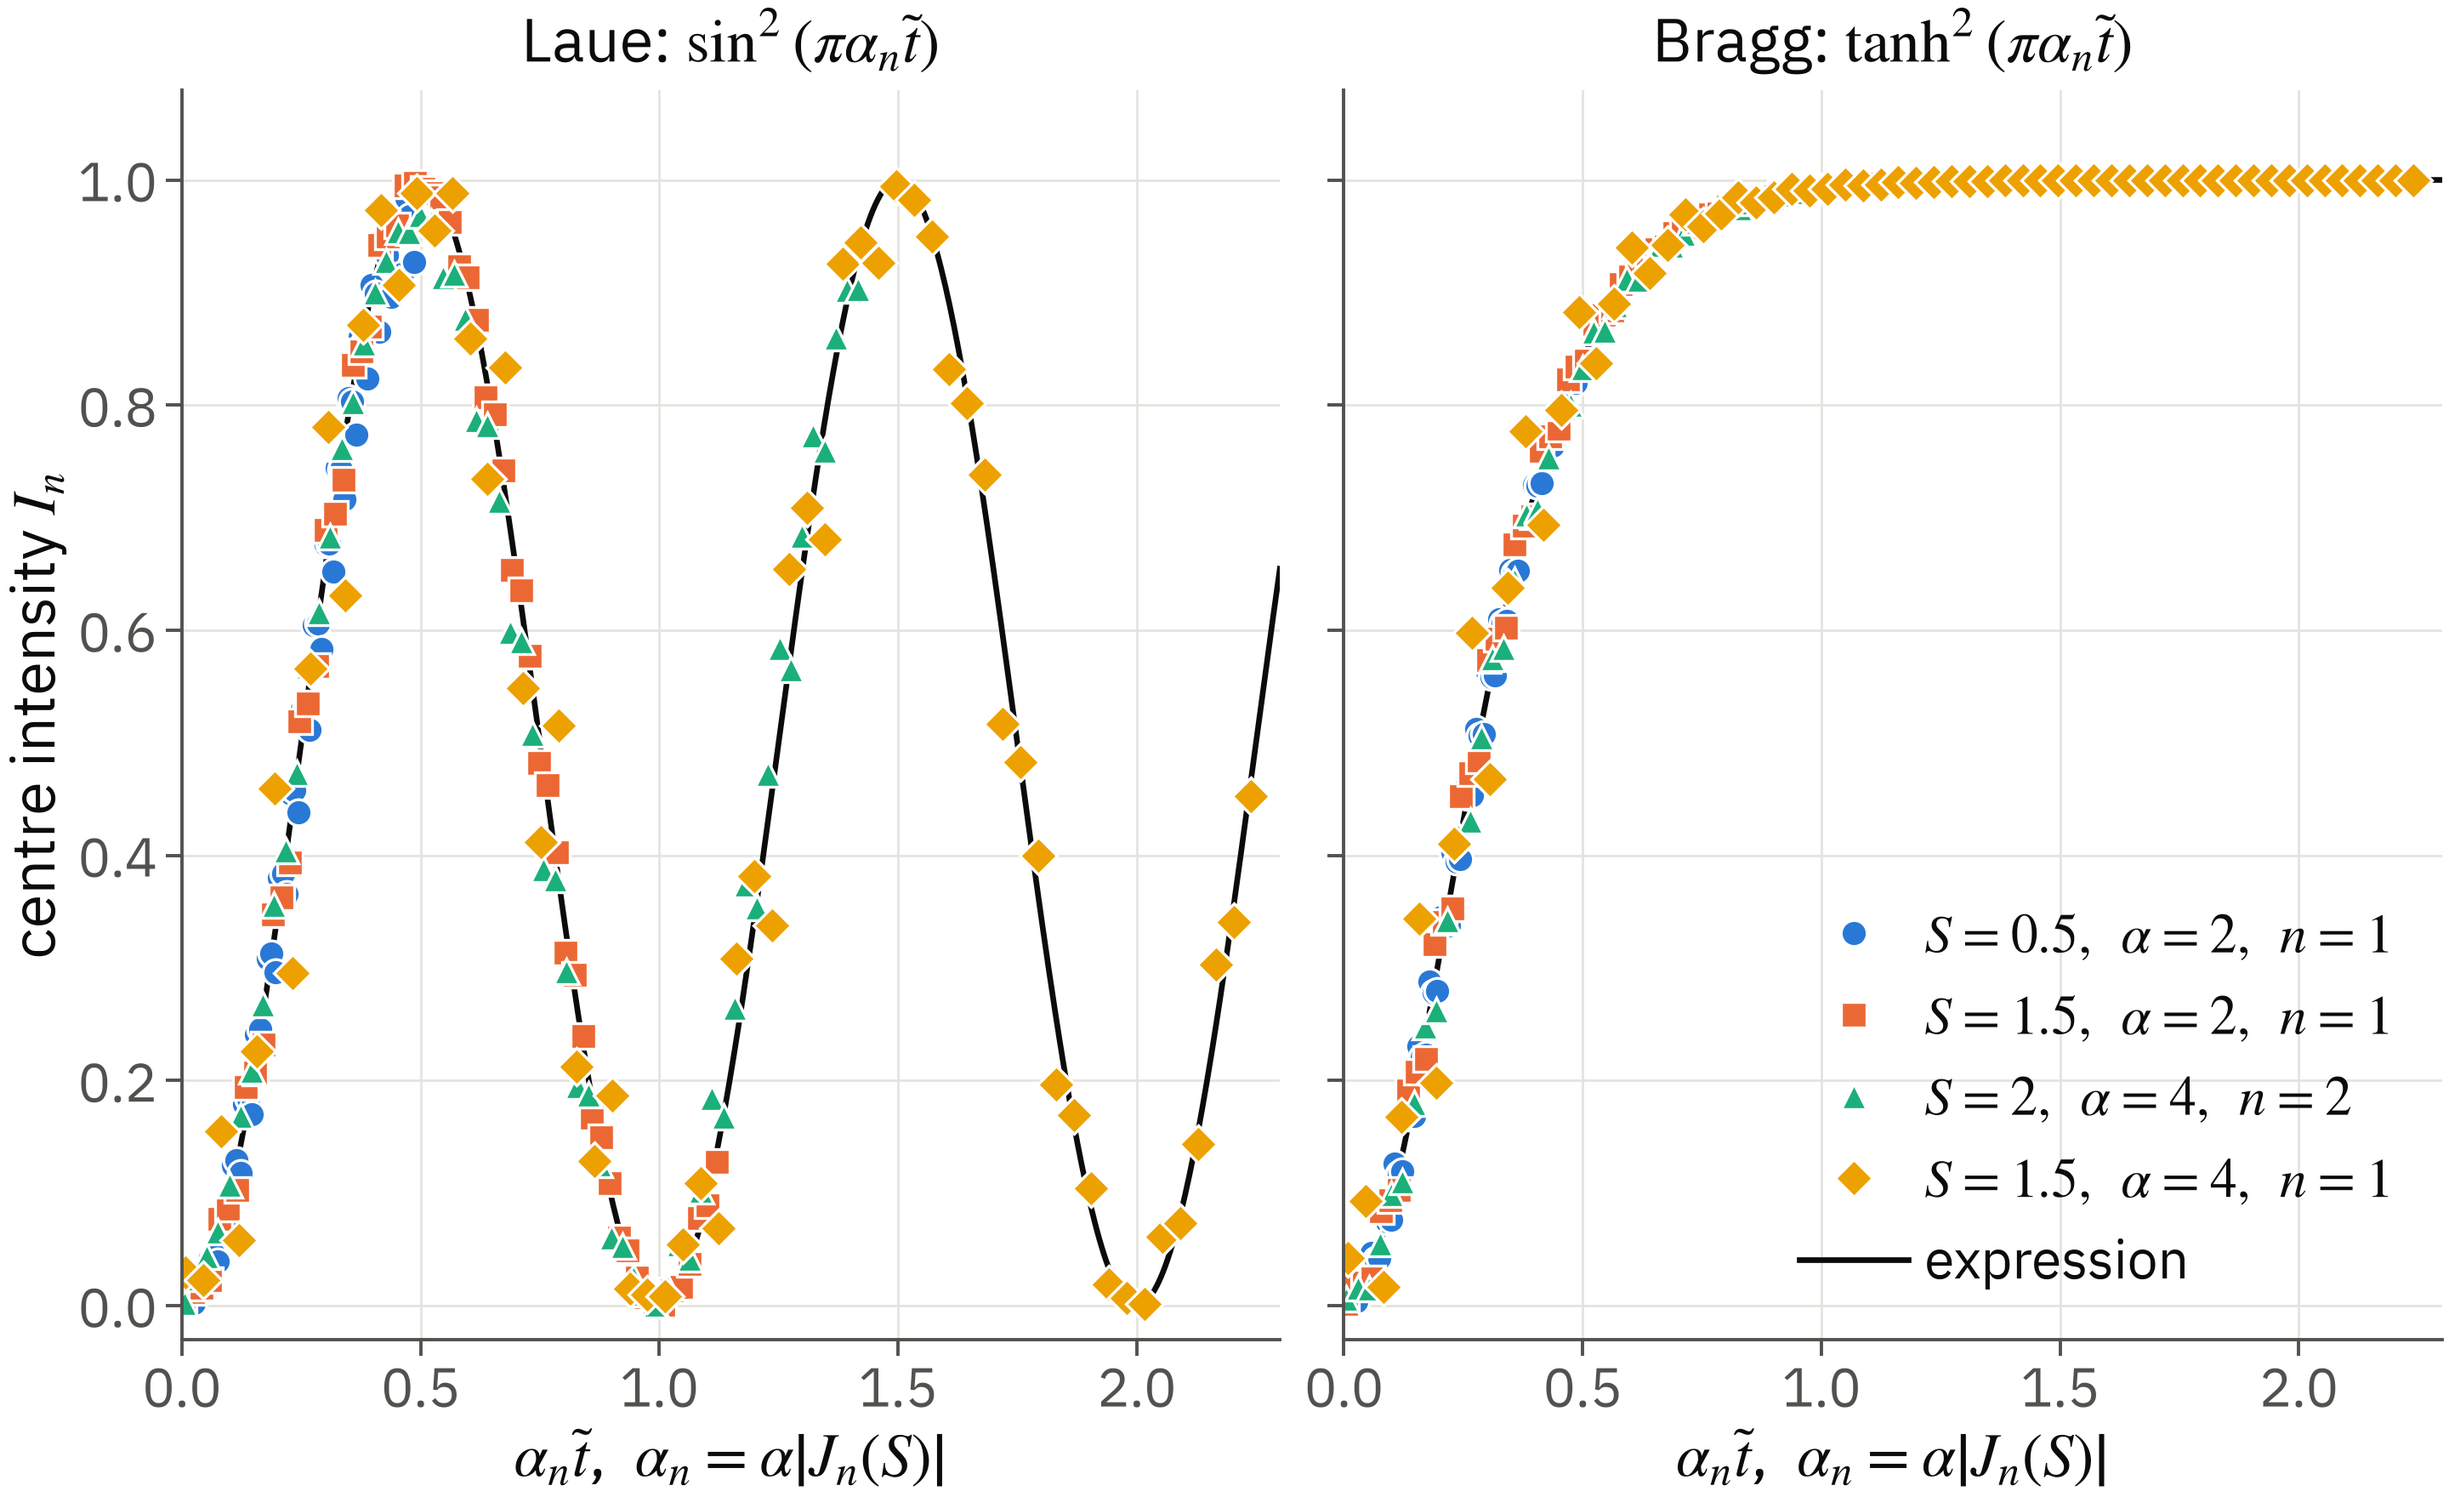
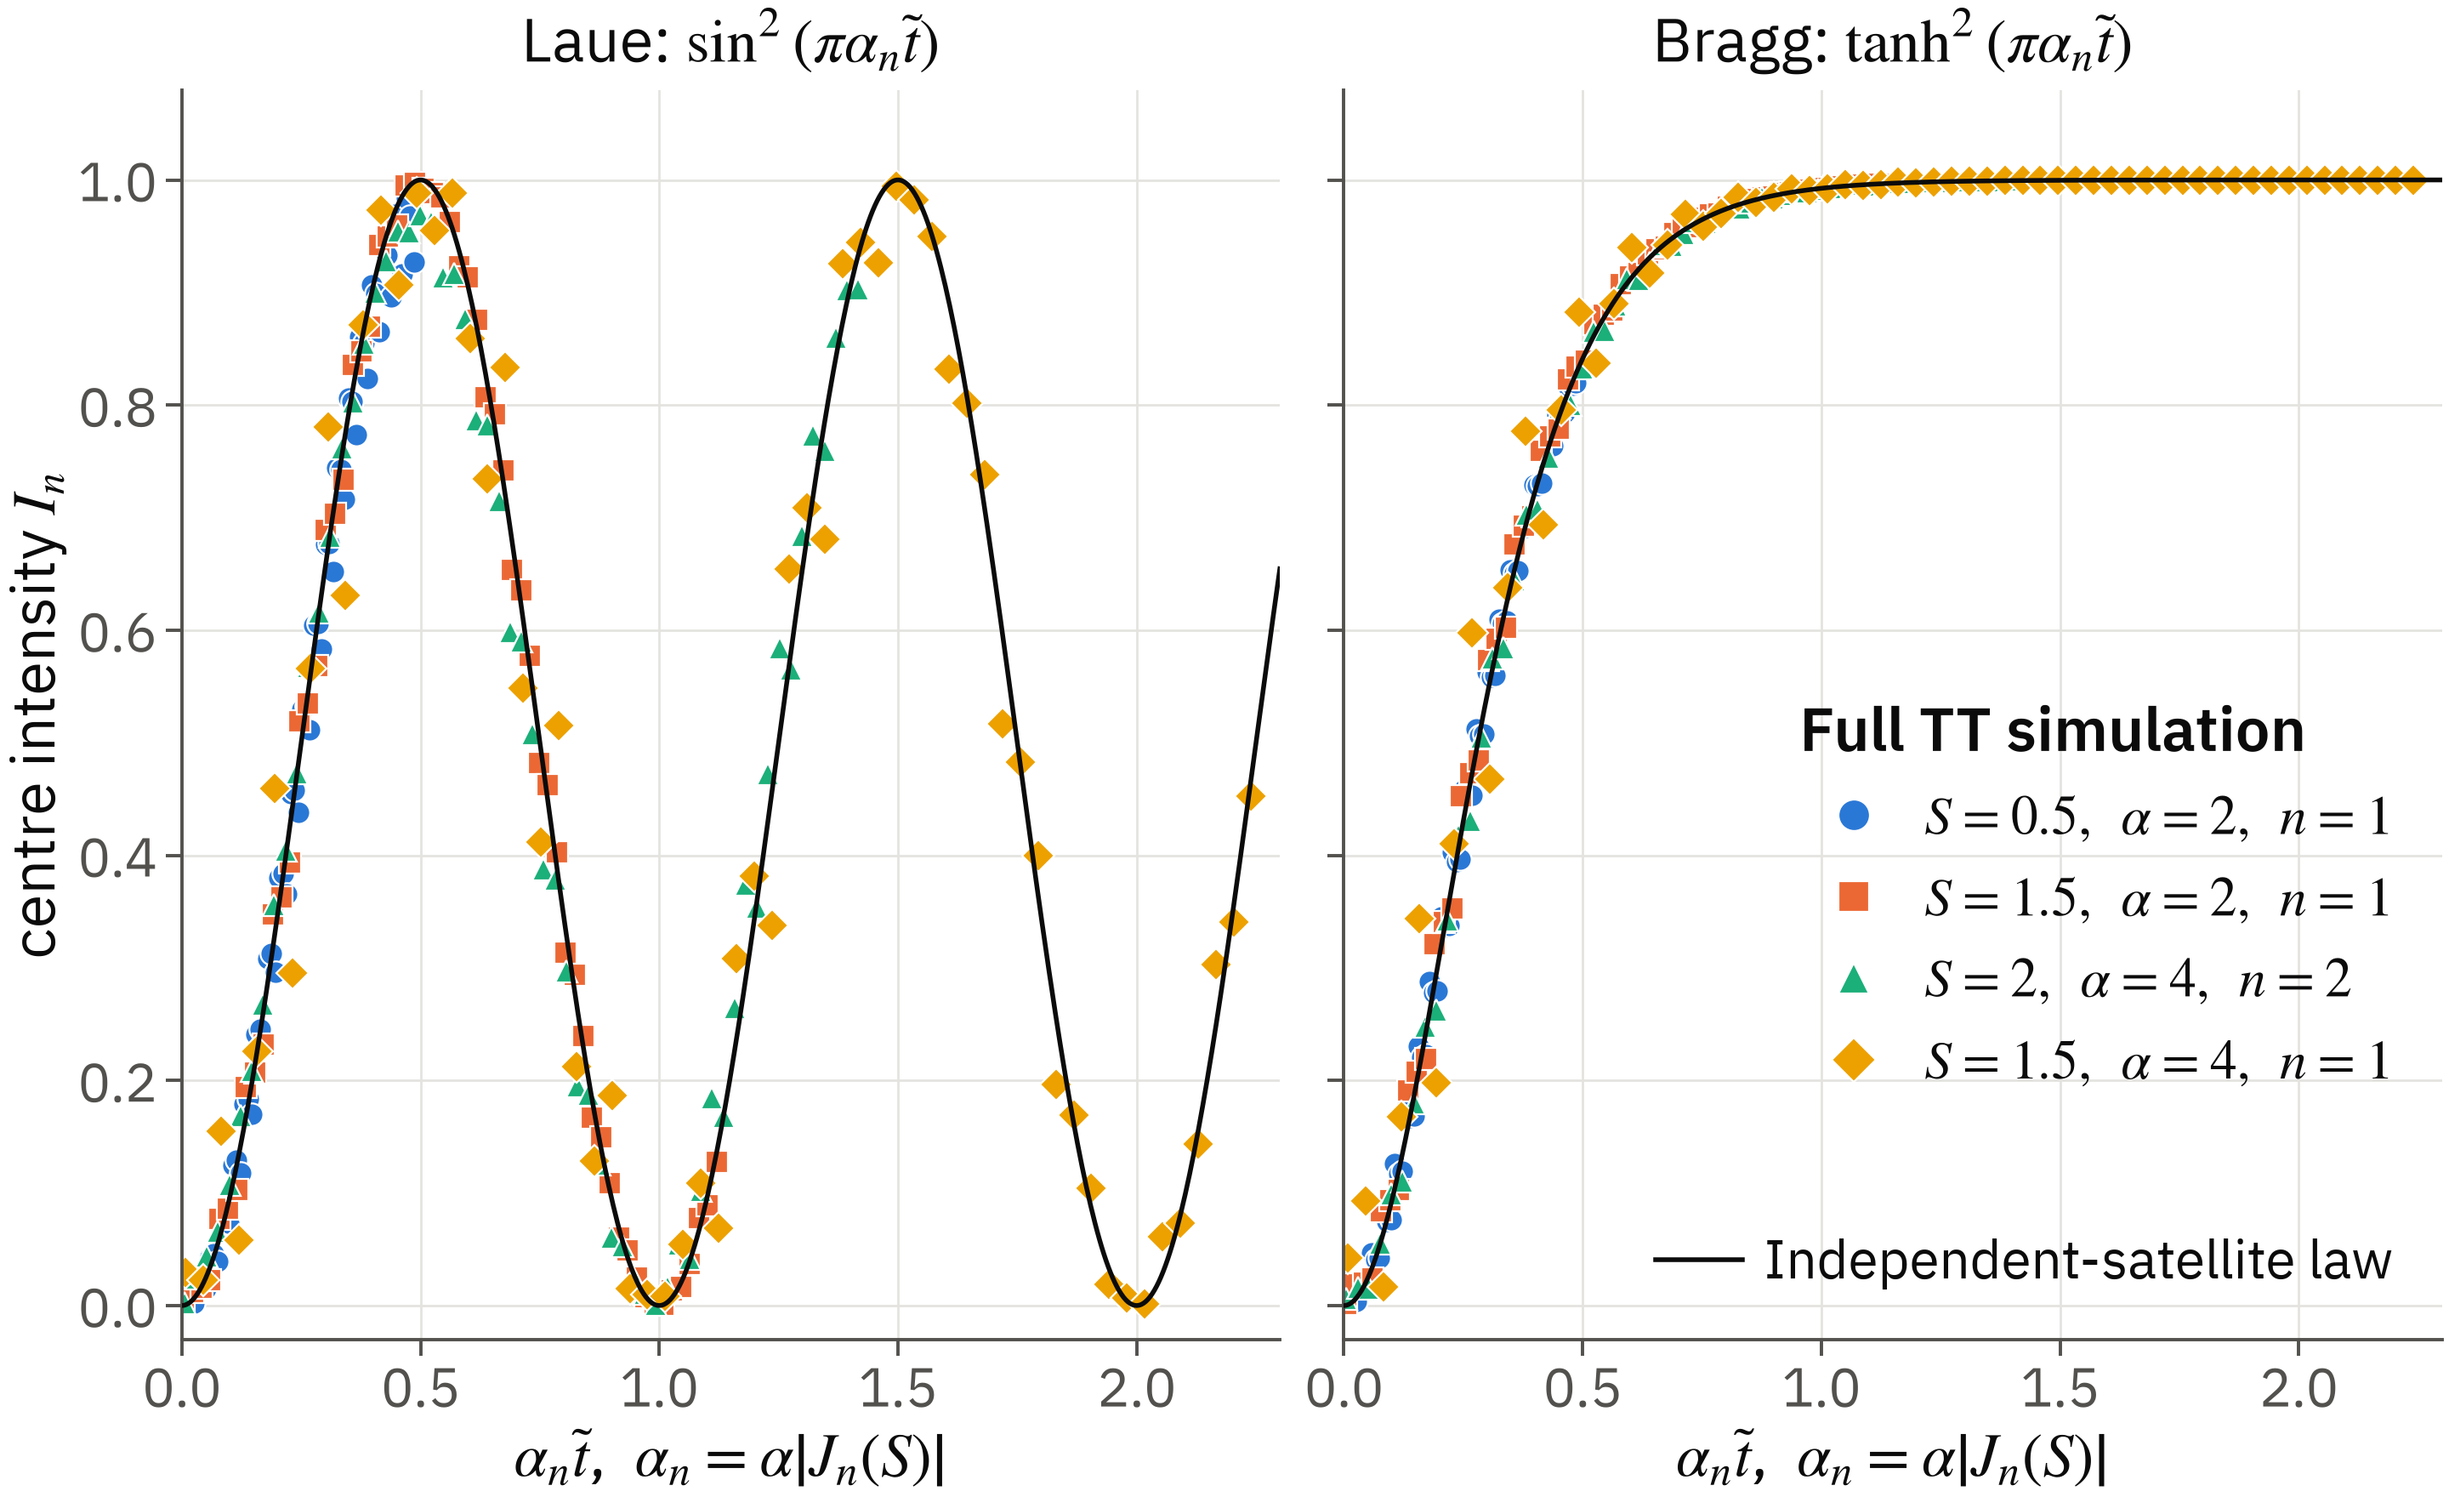
Poster: mark Result 1 as simulation and set onset conditions inline
- Retitle panel 3 'Numerical Simulation of Acoustic Satellite Formation'.
- Replace the f8 envelope images with an inline condition line drawn by
  build.py (step / ramp glyph + condition in body type), same in both
  result panels; drop f8() and its PNGs.
- f1: legend split into 'Full TT simulation' cases and the
  'Independent-satellite law'; law drawn over markers; caption names
  markers vs solid lines. Redrawn from explore/nb/poster_f1_points.npz.

diff --git a/explore/make_poster_figs.py b/explore/make_poster_figs.py
@@ -12,7 +12,6 @@ f5  outlook: Fourier weight / kinematic law (Entry 59, e58 data) and the satelli
     first-order forms against full TT (Entry 64, e64_sw.json); reads stored results only
 f6  introductory Bessel coupling weights for a sinusoidal grating
 f7  linear-ramp overshoot map and three TT-checked traces (Entry 67)
-f8  envelope strips for the two result panels: step (Drive, rise = 0) and linear ramp (Entry 67)
 """
 
 from __future__ import annotations
@@ -188,16 +187,21 @@ def f1():
     for a, data, law, title in (
             (ax[0], laue, np.sin(np.pi * s) ** 2, r"Laue: $\sin^2(\pi\alpha_n\tilde t)$"),
             (ax[1], bragg, np.tanh(np.pi * s) ** 2, r"Bragg: $\tanh^2(\pi\alpha_n\tilde t)$")):
-        a.plot(s, law, color=INK, lw=2.4, zorder=1, label="expression")
+        # the law is drawn over the TT markers so the comparison stays visible where they crowd
+        a.plot(s, law, color=INK, lw=2.0, zorder=3, label="Independent-satellite law")
         for (S, al, n), I, c, m in zip(M.CASES, data, (BLUE, ORANGE, AQUA, YELLOW), M.MARK):
-            a.plot(al * abs(jv(n, S)) * t, I, m, color=c, mec="white", mew=0.9, ms=9, ls="none",
+            a.plot(al * abs(jv(n, S)) * t, I, m, color=c, mec="white", mew=0.8, ms=9.5, ls="none", zorder=2,
                    label=rf"$S={S:g},\ \alpha={al:g},\ n={n}$")
         a.set(xlim=(0, 2.3), ylim=(-0.03, 1.08), title=title,
               xlabel=r"$\alpha_n\tilde t$,  $\alpha_n=\alpha\left|J_n(S)\right|$")
     ax[0].set_ylabel(r"centre intensity $I_n$")
     ax[1].tick_params(labelleft=False)
-    h, lab = ax[1].get_legend_handles_labels()
-    ax[1].legend(h[1:] + h[:1], lab[1:] + lab[:1], frameon=False, loc="lower right", handletextpad=0.3)
+    h, lab = ax[1].get_legend_handles_labels()       # two keys: what is simulated, what it is compared with
+    sim = ax[1].legend(h[1:], lab[1:], title="Full TT simulation", frameon=False, loc="lower right",
+                       bbox_to_anchor=(1.0, 0.16), handletextpad=0.3, markerscale=1.4, alignment="left")
+    sim.get_title().set_fontweight("semibold")
+    ax[1].add_artist(sim)
+    ax[1].legend(h[:1], lab[:1], frameon=False, loc="lower right", handlelength=1.6, handletextpad=0.4)
     finish(fig, ax, "f1_collapse")
     for name, data, law in (("Laue", laue, lambda x: np.sin(np.pi * x) ** 2),
                             ("Bragg", bragg, lambda x: np.tanh(np.pi * x) ** 2)):
@@ -396,37 +400,6 @@ def f7():
     print("wrote", OUT / "f7_overshoot.png")
 
 
-def f8():
-    """Envelope strips that open the two result panels, drawn from the envelopes the results used:
-    the step of `Drive` (rise = 0, Entries 1 and 9) and the linear ramp of memory_drive.ramp (Entry 67)."""
-    sys.path.insert(0, str(ROOT / "explore" / "nb"))
-    from memory_drive import ramp
-
-    style()
-    s = np.linspace(-0.6, 2.6, 801)
-    for name, A, color, text in (
-            ("f8_onset_step", Drive(S=1.0, alpha_ac=20.0).envelope(s), BLUE,
-             r"Sudden onset: $A(s)=1$ for $s\geq0$,  $s=\tilde t-\zeta$"),
-            ("f8_onset_ramp", ramp(1.5)(s) * (s >= 0), ORANGE,
-             r"Gradual onset: $A(s)=\min(s/T_{rise},\,1)$ for $s\geq0$")):
-        fig = plt.figure(figsize=(FIG_W, 0.95))
-        ax = fig.add_axes([0.035, 0.30, 0.20, 0.62])
-        ax.plot(s, A, color=color, lw=3.2)
-        ax.set(xlim=(-0.6, 2.6), ylim=(-0.15, 1.75), xticks=[0], yticks=[0, 1])
-        ax.set_xticklabels([r"$0$"])
-        ax.tick_params(labelsize=SMALL - 2, length=4, pad=2)
-        ax.text(1.03, 0.04, r"$s$", transform=ax.transAxes, fontsize=SMALL - 2, va="center")
-        ax.set_ylabel(r"$A$", fontsize=SMALL - 2, rotation=0, labelpad=10, va="center")
-        if "ramp" in name:
-            ax.annotate("", xy=(1.5, 1.25), xytext=(0, 1.25),
-                        arrowprops=dict(arrowstyle="<|-|>", color=INK2, lw=1.2, mutation_scale=12))
-            ax.text(0.75, 1.3, r"$T_{rise}$", ha="center", va="bottom", fontsize=SMALL - 2, color=INK2)
-        fig.text(0.27, 0.55, text, fontsize=BIG, va="center", color=INK)
-        OUT.mkdir(parents=True, exist_ok=True)
-        fig.savefig(OUT / f"{name}.png")
-        print("wrote", OUT / f"{name}.png")
-
-
 if __name__ == "__main__":
-    for name in (sys.argv[1:] or ["f0", "f1", "f2", "f3", "f4", "f5", "f6", "f7", "f8"]):
+    for name in (sys.argv[1:] or ["f0", "f1", "f2", "f3", "f4", "f5", "f6", "f7"]):
         globals()[name]()

diff --git a/poster/build.py b/poster/build.py
@@ -34,6 +34,7 @@ Manuscript syntax
                   centres that column vertically in the row; rows nest
   "> text"        key-message band                        "- text"  bullet
   "![caption](path)" figure, as wide as its column
+  "~ step | text" input-condition line: a small envelope glyph (step or ramp) followed by the text
   "$$ text"       display line: centred, slightly larger, with space around it (equations)
   "=> a // b | c" flow diagram: boxes joined by arrows, a loop arrow back to the first box; "//"
                   splits a box into its symbol line and a smaller description line
@@ -159,6 +160,11 @@ def parse(text):
         if block.startswith("=>"):
             t = " ".join(block[2:].split())
             add(dict(kind="flow", boxes=[b.strip() for b in TAG.sub("", t).split("|")], tags=TAG.findall(t)))
+            continue
+        if block.startswith("~"):
+            shape, t = block[1:].split("|", 1)
+            t = " ".join(t.split())
+            add(dict(kind="onset", shape=shape.strip(), text=TAG.sub("", t).strip(), tags=TAG.findall(t)))
             continue
         if block.startswith("$$"):
             t = " ".join(block[2:].split())
@@ -304,6 +310,30 @@ def equation(P, it, x, y, w, draw=True):
     return P.flow(it["text"], x, y + 1, w, s["eq_pt"], align="center", draw=draw) + s["para_gap"] + 1.5
 
 
+def onset(P, it, x, y, w, draw=True):
+    """Input condition of a result panel on one line: envelope glyph A(s) (step or linear ramp,
+    onset at s = 0), then the condition in body type."""
+    s = SPEC
+    gw, x0, top, base = 46.0, x + 11.0, y + 3.0, y + 12.5     # glyph width, onset, A = 1, A = 0
+    knee = x0 + (17.0 if it["shape"] == "ramp" else 0.0)
+    lab = s["caption_pt"] * PT_MM
+    if draw:
+        P.ax.annotate("", xy=(x + gw, base), xytext=(x, base), zorder=3,
+                      arrowprops=dict(arrowstyle="-|>", color=s["ink2"], lw=1.4, mutation_scale=14))
+        P.ax.plot([x, x0, knee, x + gw - 6], [base, base, top, top], color=s["navy"], lw=3.0,
+                  solid_joinstyle="miter", zorder=4)
+        P.ax.text(x + gw + 1.2, base, "$s$", fontsize=s["caption_pt"], color=s["ink2"], va="center", zorder=4)
+        ticks = [(x0, "$0$")] + ([(knee, "$T_{rise}$")] if knee > x0 else [])
+        for tx, t in ticks:
+            P.ax.plot([tx, tx], [base, base + 1.6], color=s["ink2"], lw=1.4, zorder=3)
+            P.ax.text(tx, base + 2.0, t, fontsize=s["caption_pt"], color=s["ink2"], ha="center", va="top",
+                      zorder=4)
+        if knee > x0:
+            P.ax.plot([knee, knee], [top, base], color=s["ink2"], lw=1.0, ls=(0, (2, 2)), zorder=3)
+    y1 = P.flow(it["text"], x + gw + 9, y + 0.6, w - gw - 9, s["body_pt"], draw=draw, strong=s["navy"])
+    return max(y1, base + 2.0 + lab) + s["para_gap"]
+
+
 def flow_diagram(P, it, x, y, w, draw=True):
     """Boxes left to right joined by arrows, with a return arrow underneath (one loop per time step).
     A box "symbol // description" sets the symbol large and the description small below it."""
@@ -387,6 +417,8 @@ def items(P, its, x, y, w, draw, check):
             y = callout(P, it, x, y, w, draw)
         elif k == "eq":
             y = equation(P, it, x, y, w, draw)
+        elif k == "onset":
+            y = onset(P, it, x, y, w, draw)
         elif k == "flow":
             y = flow_diagram(P, it, x, y, w, draw)
         else:

diff --git a/poster/poster.md b/poster/poster.md
@@ -73,9 +73,9 @@ $$ $dR/d\zeta=-i\pi\alpha\,e^{-i\phi}-i\eta R-i\pi\alpha\,e^{+i\phi}R^2,\qquad R
 
 @pair
 
-## Formation Dynamics of Acoustic Satellites
+## Numerical Simulation of Acoustic Satellite Formation
 
-![](figures/poster/f8_onset_step.png){E0}
+~ step | **Sudden acoustic onset:** $A(s)=H(s)$, $s=\tilde t-\zeta$ {E0}
 
 With the satellites treated as independent, the strained layer acts as a uniform crystal of thickness $\tilde t$ and coupling $\alpha_n=\alpha\left|J_n(S)\right|$: {E1}{E9}
 
@@ -83,11 +83,11 @@ $$ $I_n=\sin^2(\pi\alpha_n\tilde t)$ (Laue), $\qquad I_n=\tanh^2(\pi\alpha_n\til
 
 The formation time $\tau_n=\Lambda_P/(v_s\left|J_n(S)\right|)$ is independent of $L$, and the order follows $\left|J_n(S)\right|$ rather than $n$ (at $S=3$: $n=2,1,3$). {E1}{E6}
 
-![Points: full TT; lines: independent-satellite expressions without fitting parameters. Deviations reflect the approximation, not solver error; see the research notebook for validity limits.](figures/poster/f1_collapse.png){E1}{E9}{E19}{E26}
+![Markers: full TT simulations; solid lines: independent-satellite approximation, without fitting parameters. Deviations reflect the approximation rather than numerical solver error.](figures/poster/f1_collapse.png){E1}{E9}{E19}{E26}
 
 ## Transient Intensity Overshoot
 
-![](figures/poster/f8_onset_ramp.png){E28}{E67}
+~ ramp | **Gradual acoustic onset:** $A(s)=\min(s/T_{rise},\,1)$ for $s\geq0$ {E28}{E67}
 
 The depth-dependent amplitude gives satellite $n$ a depth-averaged coupling: {E5}{E28}
 
